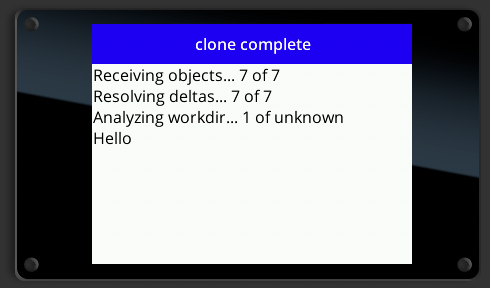
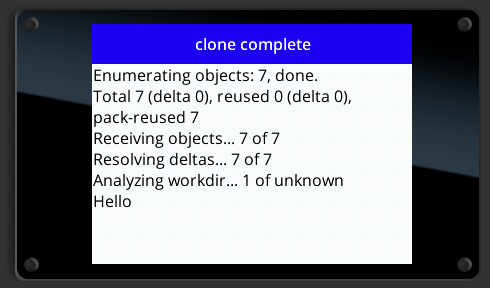
small aesthetic improvements

Changed region(s): [[0.1837, 0.2188, 0.7347, 0.6562], [0.1837, 0.6875, 0.2755, 0.7188]]

diff --git a/src/main.js b/src/main.js
@@ -118,7 +118,7 @@ async function doStuff() {
   trace('DELETING OLD FILES\n')
   let string = ''
   application.behavior.setTitle('deleting files...')
-  const _dir = dir
+  const _dir = dir + '/'
   // depth first recursive delete
   let rmrf = async dir => {
     try {
@@ -127,14 +127,15 @@ async function doStuff() {
         await rmrf(`${dir}/${entry}`)
       }
       await fs.promises.rmdir(dir)
-      string += `${dir.replace(_dir, '')}, `
+      string += `${dir.replace(_dir, '')} `
       application.behavior.setBody(string)
     } catch (e) {
       await fs.promises.unlink(dir)
-      string += `${dir.replace(_dir, '')}, `
+      string += `${dir.replace(_dir, '')} `
       application.behavior.setBody(string)
     }
   }
+  string = undefined
 
   try {
     await rmrf(dir);
@@ -145,9 +146,9 @@ async function doStuff() {
   }
 
   trace('MAIN - CLONE\n')
-  string = ''
-  let phase = ''
-  const strings = []
+  let phases = {
+    msg: '',
+  }
   application.behavior.setBody('')
   application.behavior.setTitle('cloning...')
   try {
@@ -160,21 +161,12 @@ async function doStuff() {
         'User-Agent': userAgent,
       },
       onMessage(msg) {
-        string += msg
-        application.behavior.setBody(string)
+        phases.msg += msg + '\n'
+        application.behavior.setBody(Object.values(phases).join('\n'))
       },
       onProgress(val) {
-        if (val.phase !== phase) {
-          strings.push(
-            `${val.phase}... ${val.loaded} of ${val.total || 'unknown'}`
-          )
-        } else {
-          strings[strings.length - 1] = `${val.phase}... ${
-            val.loaded
-          } of ${val.total || 'unknown'}`
-        }
-        phase = val.phase
-        application.behavior.setBody(strings.join('\n'))
+        phases[val.phase] = `${val.phase}... ${val.loaded} of ${val.total || 'unknown'}`
+        application.behavior.setBody(Object.values(phases).join('\n'))
       },
     })
   } catch (err) {
@@ -183,8 +175,9 @@ async function doStuff() {
   }
 
   application.behavior.setTitle('clone complete')
-  strings.push(await fs.promises.readFile(dir + '/a.txt', 'utf8'))
-  application.behavior.setBody(strings.join('\n'))
+  phases.final = await fs.promises.readFile(dir + '/a.txt', 'utf8')
+  application.behavior.setBody(Object.values(phases).join('\n'))
+  phases = undefined
   trace('MAIN - EXIT\n')
 }
 
